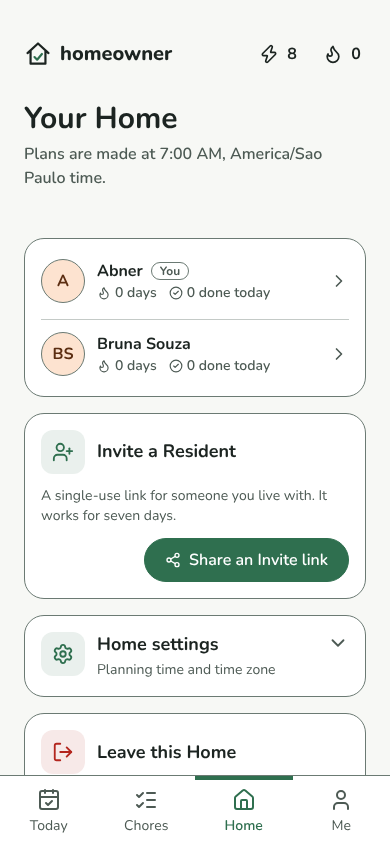
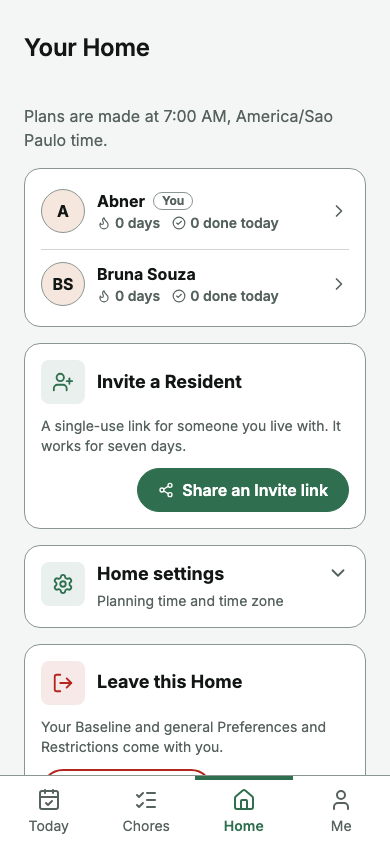
docs(web): recapture the readme screenshots with the page header (#889)
Each tab now has its own h1, so the capture waits for it to change; it took
the Home shot while Chores still showed.

diff --git a/web/e2e/readme/screenshots.capture.ts b/web/e2e/readme/screenshots.capture.ts
@@ -66,8 +66,10 @@ for (const l of LOCALES) {
         await page.screenshot({ path: `${OUT}/today-${l.file}.png` });
 
         for (const [tab, name] of [["chores", l.nav.chores], ["home", l.nav.home], ["me", l.nav.me]] as const) {
+          const previous = await page.getByRole("heading", { level: 1 }).textContent();
           await page.getByRole("link", { name, exact: true }).click();
-          await expect(page.getByRole("heading", { level: 1 }).first()).toBeVisible();
+          // Each tab has its own h1, so wait for it to change rather than for any h1.
+          await expect(page.getByRole("heading", { level: 1 })).not.toHaveText(previous!);
           await page.waitForLoadState("networkidle");
           await page.screenshot({ path: `${OUT}/${tab}-${l.file}.png` });
         }
